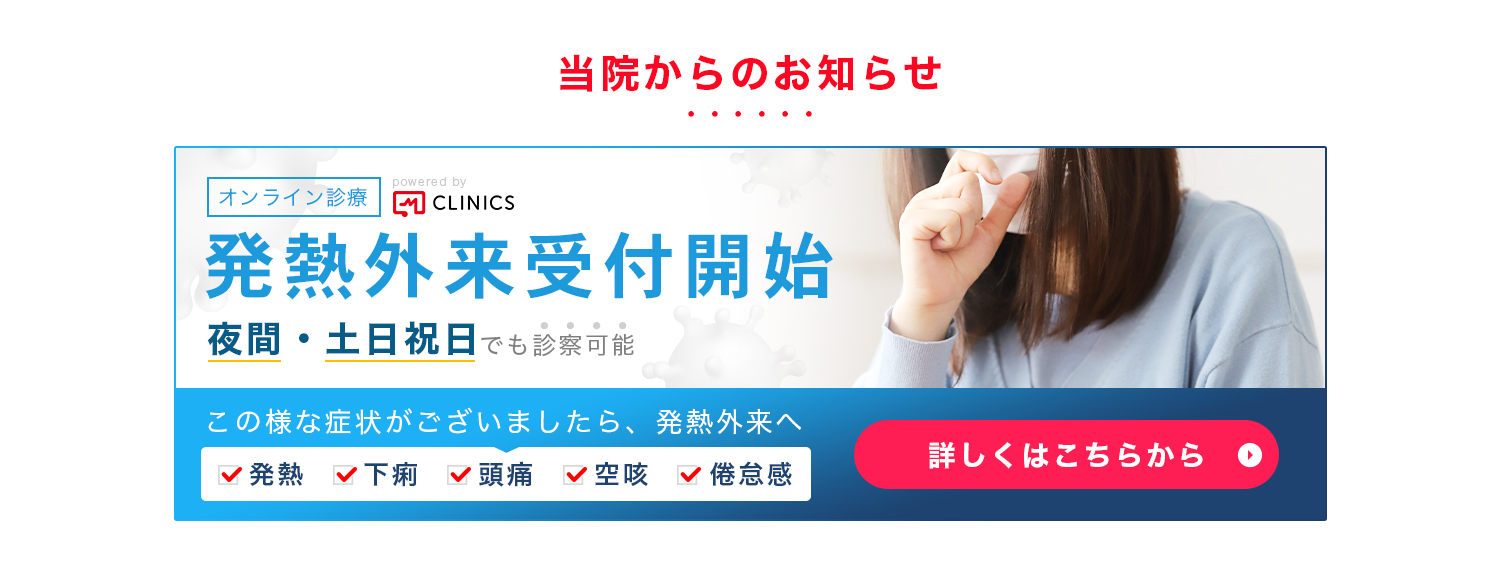
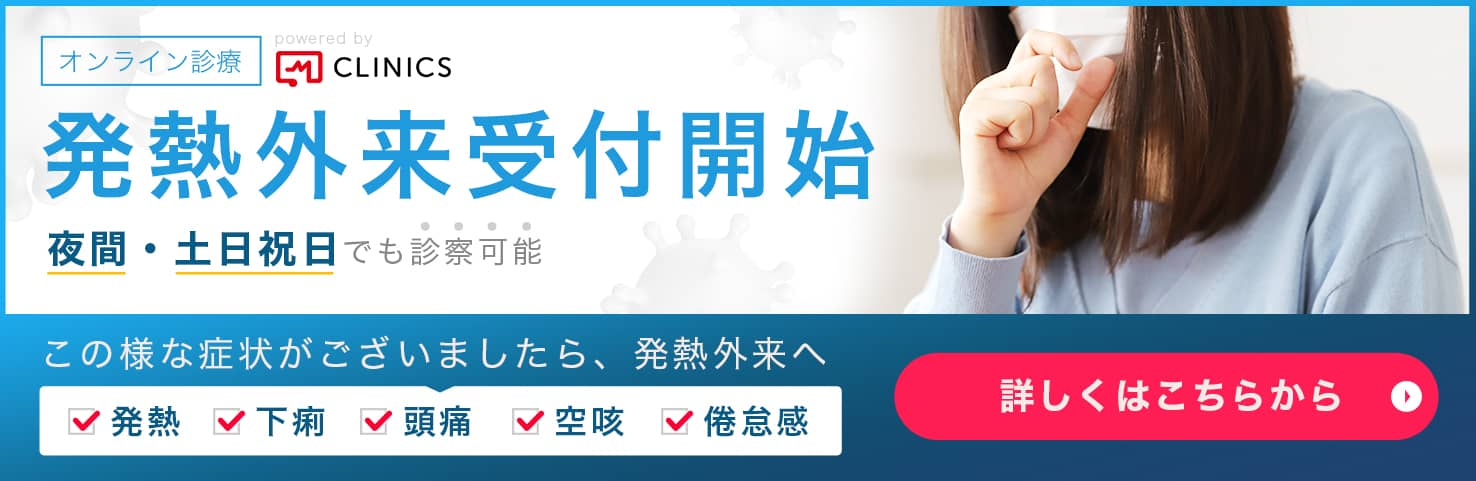
変異体検査追加

diff --git a/css/style.css b/css/style.css
@@ -11883,15 +11883,35 @@ p.p-conf-note {
   visibility: visible;
 }
 
+.p-heat-bnr {
+  font-size: 0;
+  padding: 3.78rem 0;
+  text-align: center;
+}
+
+.p-heat-bnr__ttl {
+  color: #e60012;
+  font-size: 1.75rem;
+  font-weight: 600;
+  letter-spacing: .1em;
+  margin-bottom: 1.95rem;
+  text-align: center;
+}
+
+.p-heat-bnr__ttl::after {
+  font-size: .78rem;
+}
+
 .p-heat-bnr__img {
-  margin: 0 auto;
-  max-width: 960px;
+  display: inline-block;
+  margin: 0 .78rem;
+  max-width: 580px;
   width: 90%;
 }
 
 @media (max-width: 767px) {
-  .p-heat-bnr__img {
-    padding: 2.25rem;
+  .p-heat-bnr__img:first-of-type {
+    margin-bottom: 1.34rem;
   }
 }
 
@@ -15616,6 +15636,29 @@ input, select {
 .p-table-price-text__note {
   display: block;
   font-size: 1.11rem;
+}
+
+.p-services-ttl {
+  color: #1892bf;
+  font-size: 2.75188rem;
+  margin-bottom: 0.5rem;
+}
+
+@media (max-width: 767px) {
+  .p-services-ttl {
+    font-size: 1.625rem;
+  }
+}
+
+.p-services-catch {
+  font-size: 1.80937rem;
+  margin-bottom: 1.875rem;
+}
+
+@media (max-width: 767px) {
+  .p-services-catch {
+    font-size: 1.3125rem;
+  }
 }
 
 .p-top-menu-area {

diff --git a/scss/project/_header.scss b/scss/project/_header.scss
@@ -441,7 +441,7 @@
 
             // right: -50%;
             // transform: translateX(-50%);
-       
+
         }
 
         .p-top-menu-btn__inner {
@@ -704,7 +704,7 @@
 
     &__ttl {
         //margin-bottom: .88rem;
-   
+
     }
 
     &__ttl-in {
@@ -803,7 +803,7 @@
             border-right: none;
 
             //padding-left: rem(10);
-       
+
         }
     }
 }
@@ -1101,13 +1101,31 @@
 }
 
 .p-heat-bnr {
+    text-align: center;
+    padding: 3.78rem 0;
+    font-size: 0;
+    &__ttl {
+        text-align: center;
+        font-weight: 600;
+        color: #e60012;
+        font-size: 1.75rem;
+        letter-spacing: .1em;
+        margin-bottom: 1.95rem;
+        &::after {
+            font-size: .78rem;
+        }
+    }
+
     &__img {
-        max-width: 960px;
-        margin: 0 auto;
+        display: inline-block;
+        max-width: 580px;
+        margin: 0 .78rem;
         width: 90%;
 
         @media (max-width: 767px) {
-            padding: 2.25rem;
+            &:first-of-type {
+                margin-bottom: 1.34rem;
+            }
         }
     }
 }

diff --git a/scss/project/_top.scss b/scss/project/_top.scss
@@ -1,3 +1,22 @@
+.p-services-ttl {
+    color: #1892bf;
+    font-size: rem(44.03);
+    margin-bottom: rem(8);
+    @media (max-width: 767px) {
+        font-size: rem(26);
+    }
+}
+
+.p-services-catch {
+    font-size: rem(28.95);
+    margin-bottom: rem(30);
+    @media (max-width: 767px) {
+        font-size: rem(21);
+    }
+}
+
+
+
 .p-top-menu-area {
     padding: rem(63) 0;
 

diff --git a/index.php b/index.php
@@ -873,6 +873,45 @@
 <!-- ./p-menu-area -->
 
 
+
+
+<section class="p-free-inspection-area" id="link-free-services">
+
+<div class="c-ttl-skew">
+
+    <h2 class="c-title-under-circle --circle-small c-ttl-skew__text">
+    無償の変異体サービスの実施
+    </h2>
+
+</div>
+<!-- ./skew-ttl -->
+
+    <div class="p-free-inspection p-bg-light-blue">
+
+        <div class="l-inner">
+                <h3 class="p-services-ttl u-tc u-fw600">2021年4月15日より実施開始予定</h3>
+                <p class="p-services-catch u-tc u-fw600">新たな社会貢献活動として変異体の<br class="u-sp">特定サービスを無償で開始いたします</p>
+
+                <div class="p-services-img">
+                    <img src="<?php echo get_template_directory_uri(); ?>/img/front/servise_desc.png" alt="検査の流れ" class="u-pc">
+                    <img src="<?php echo get_template_directory_uri(); ?>/img/front/servise_desc_sp.png" alt="検査の流れ" class="u-sp">
+                </div>
+        </div>
+
+    </div>
+</section>
+
+
+
+
+
+
+
+
+
+
+
+
 <section class="p-free-inspection-area" id="link-free-inspection">
 
 <div class="c-ttl-skew">

diff --git a/header.php b/header.php
@@ -422,35 +422,35 @@ jQuery(document).ready(function(){
 
 
 
+
+
+
 <?php if ( is_home() || is_front_page() ) : ?>
 
 <div class="p-heat-bnr" id="js-pages-head">
 
-<div class="p-heat-bnr__img">
-<a href="<?php echo home_url( '/' ); ?>outpatient-fever" class="">
-  <img src="<?php echo get_template_directory_uri(); ?>/img/common/c_heat_bnr.jpg" alt="" class="u-pc">
-  <img src="<?php echo get_template_directory_uri(); ?>/img/common/c_heat_bnr_sp.jpg" alt="" class="u-sp">
+<p class="p-heat-bnr__ttl c-title-under-circle">当院からのお知らせ</p>
+
+
+<a href="<?php echo home_url( '/' ); ?>outpatient-fever" class="p-heat-bnr__img">
+  <img src="<?php echo get_template_directory_uri(); ?>/img/common/c_heat_bnr.jpg?20210402" alt="発熱外来">
 </a>
+
+<a href="#link-free-services" class="p-heat-bnr__img">
+  <img src="<?php echo get_template_directory_uri(); ?>/img/common/c_survise_bnr.jpg?20210402" alt="無償で対応変異株特定サービス">
+</a>
+
+
+
 </div>
 
 
-</div>
 
 
 <?php endif; ?>
 
 
-
-
-
-
-
   <header class="l-header p-header p-header--top" id="js-header">
-
-
-
-
-
 
     <div class="p-header__inner p-header__inner--top">
 
